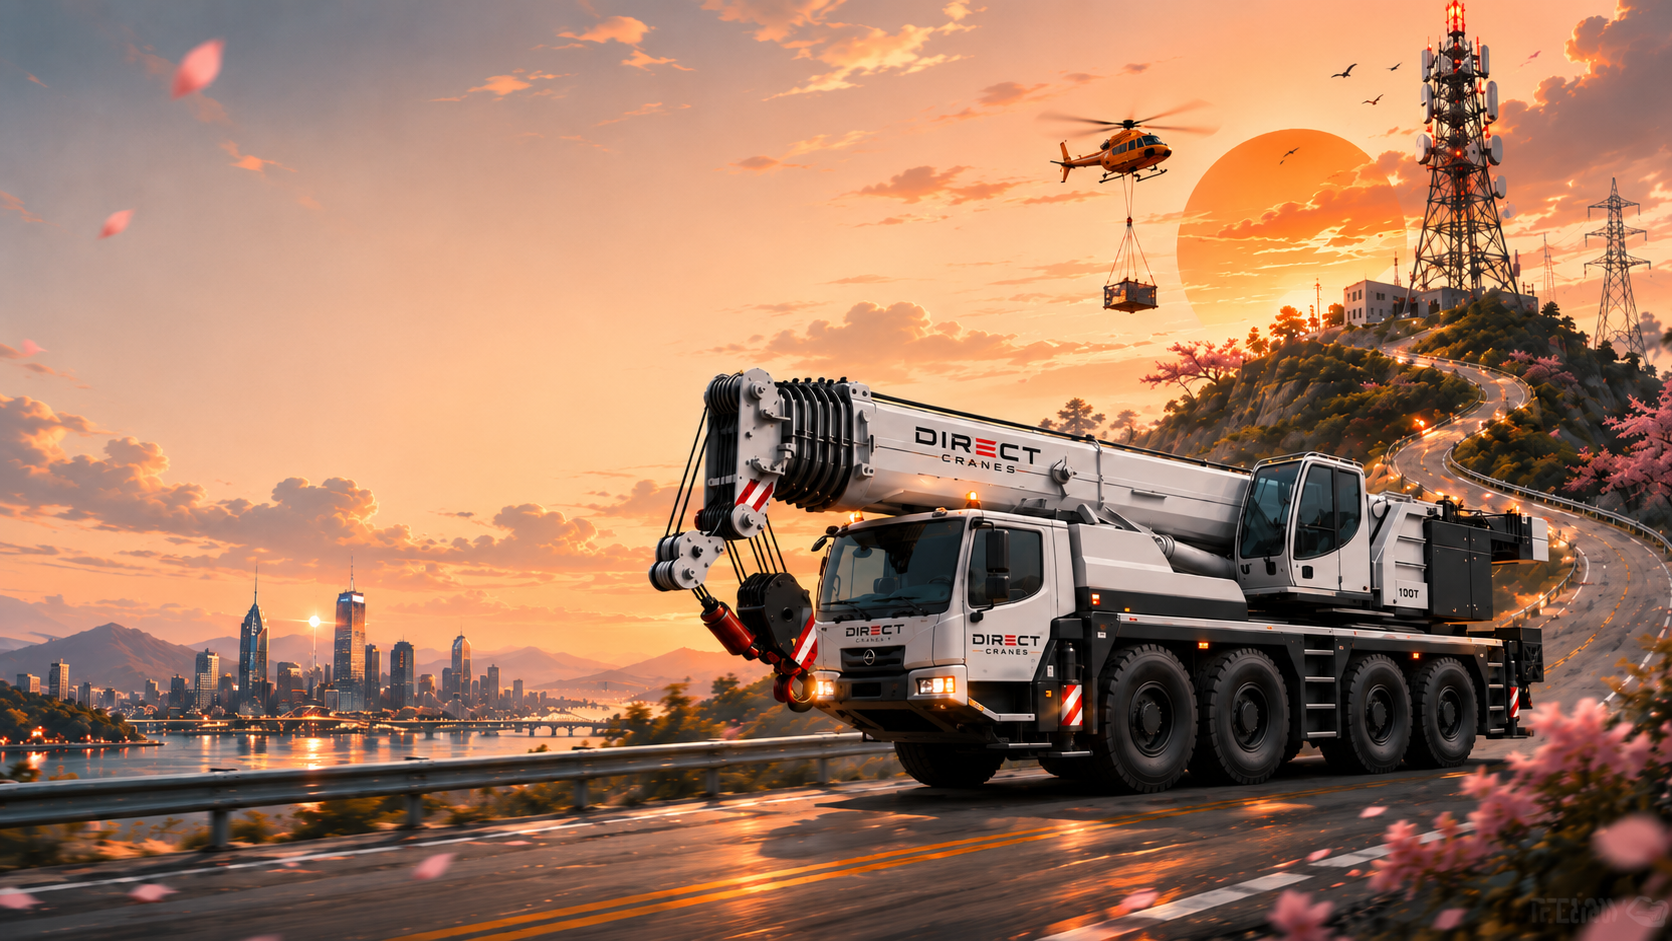
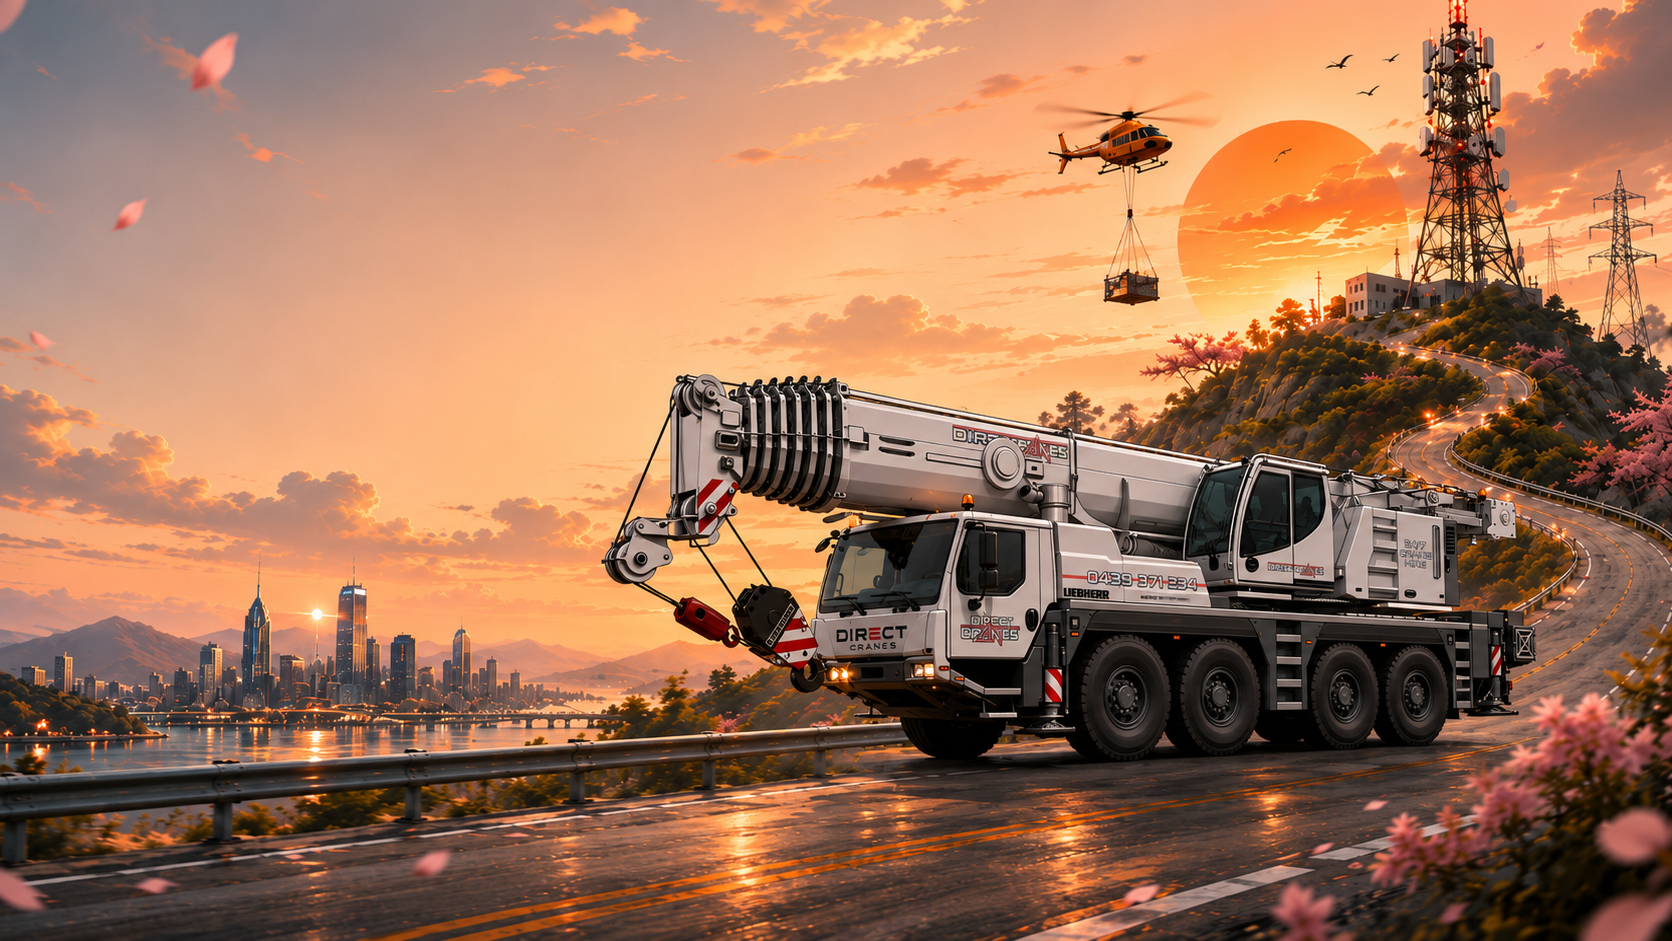
Update hero art, fleet to 250T all-terrain + 40-250T crawlers
- Replace hero background with new sunset crane illustration
- Add 250T all-terrain crane and reframe crawler card as 40T-250T range
- Update Mobile Cranes copy/capabilities to 250T all-terrain + crawlers
- Tighten "Who we lift for" section padding to remove empty space

diff --git a/frontend/src/lib/site-data.js b/frontend/src/lib/site-data.js
@@ -35,20 +35,20 @@ export const SERVICES = [
     slug: "mobile-cranes",
     chapter: "01",
     title: "Mobile Cranes",
-    short: "All-terrain cranes to 100T, 25T Frannas and heavy slews to 250T — wet hire with certified crews.",
-    lede: "From tight-access 25T Frannas to 100T all-terrains and 250T slew cranes — road-legal machines supplied wet with experienced operators, dogmen and riggers.",
+    short: "All-terrain cranes to 250T, 25T Frannas and crawlers 40T – 250T — wet hire with certified crews.",
+    lede: "From tight-access 25T Frannas to 250T all-terrains and 40T – 250T crawler cranes — road-legal machines supplied wet with experienced operators, dogmen and riggers.",
     body: [
       "Our mobile fleet covers every lift. Frannas pick and carry through tight yards with zero setup. All-terrains arrive, rig in under 30 minutes and get your load in the air the same day. And when the job is heavy, long or high, our slew cranes to 250T deliver with luffing jibs, superlift and full engineering behind every pick.",
       "Every hire includes a certified operator and rigging crew, site inspection, SWMS and lift plans. Short-term lifts or long-term project hire — one call, one company, complete lift.",
     ],
-    capabilities: ["All-terrain cranes to 100T", "25T Franna pick & carry", "Slew cranes 50T – 250T", "Wet hire — operator, dogman, rigger", "Same-day & emergency mobilisation", "Multi-crane tandem lifts"],
+    capabilities: ["All-terrain cranes to 250T", "25T Franna pick & carry", "Crawler cranes 40T – 250T", "Wet hire — operator, dogman, rigger", "Same-day & emergency mobilisation", "Multi-crane tandem lifts"],
     specs: [
       { k: "Range", v: "25T – 250T" },
       { k: "Setup time", v: "0 – 30 min" },
       { k: "Hire type", v: "Wet · ST & LT" },
     ],
     image: IMG.at100,
-    machines: ["AT-100", "FR-25", "SL-250"],
+    machines: ["AT-250", "AT-100", "FR-25", "SL-250"],
   },
   {
     slug: "tower-cranes",
@@ -148,6 +148,24 @@ export const FLEET = [
     ],
   },
   {
+    code: "AT-250",
+    name: "250T All-Terrain Crane",
+    tagline: "All-terrain, pro-grade to 250T.",
+    blurb: "Our flagship all-terrain — road-legal to 250T with long main boom and luffing jib for heavy, high and long-reach lifts.",
+    image: IMG.at100,
+    serviceSlug: "mobile-cranes",
+    specs: [
+      { icon: "hook", label: "Max lift capacity", value: "250", unit: "tonnes" },
+      { icon: "boom", label: "Main boom length", value: "80", unit: "metres" },
+      { icon: "height", label: "Max tip height", value: "110+", unit: "metres" },
+      { icon: "radius", label: "Max working radius", value: "68", unit: "metres" },
+      { icon: "jib", label: "Luffing jib", value: "43", unit: "metres" },
+      { icon: "axle", label: "Axles", value: "7 × 8", unit: "drive" },
+      { icon: "weight", label: "Counterweight", value: "80", unit: "tonnes" },
+      { icon: "timer", label: "Setup time", value: "30–45", unit: "min" },
+    ],
+  },
+  {
     code: "FR-25",
     name: "25T Franna Pick & Carry",
     tagline: "No setup. No fuss. Just lift.",
@@ -165,13 +183,13 @@ export const FLEET = [
   },
   {
     code: "SL-250",
-    name: "250T Slew Crawler",
+    name: "Crawler Cranes 40T – 250T",
     tagline: "The heavy hitter.",
-    blurb: "Lattice boom crawler for structural steel, bridge beams and major infrastructure.",
+    blurb: "Lattice-boom crawlers from 40T to 250T for structural steel, bridge beams and major infrastructure.",
     image: IMG.slew,
     serviceSlug: "mobile-cranes",
     specs: [
-      { icon: "hook", label: "Max lift capacity", value: "250", unit: "tonnes" },
+      { icon: "hook", label: "Capacity range", value: "40–250", unit: "tonnes" },
       { icon: "boom", label: "Main boom", value: "84", unit: "metres" },
       { icon: "jib", label: "Luffing jib", value: "91", unit: "metres" },
       { icon: "grade", label: "Ground pressure", value: "Low", unit: "tracks" },

diff --git a/frontend/src/components/site/Industries.jsx b/frontend/src/components/site/Industries.jsx
@@ -4,7 +4,7 @@ import { INDUSTRIES } from "@/lib/site-data";
 
 export default function Industries() {
   return (
-    <section className="border-y-[3px] border-ink bg-flame py-20 sm:py-24" data-testid="industries-section">
+    <section className="border-y-[3px] border-ink bg-flame py-12 sm:py-14" data-testid="industries-section">
       <div className="mx-auto max-w-[1600px] px-5 sm:px-10">
         <Reveal>
           <p className="font-mono text-[11px] uppercase tracking-[0.3em] text-ink">Who we lift for</p>
@@ -13,7 +13,7 @@ export default function Industries() {
           </h2>
         </Reveal>
         <Reveal delay={0.15}>
-          <div className="mt-10 flex flex-wrap gap-3">
+          <div className="mt-8 flex flex-wrap gap-3">
             {INDUSTRIES.map((ind) => (
               <span
                 key={ind}
